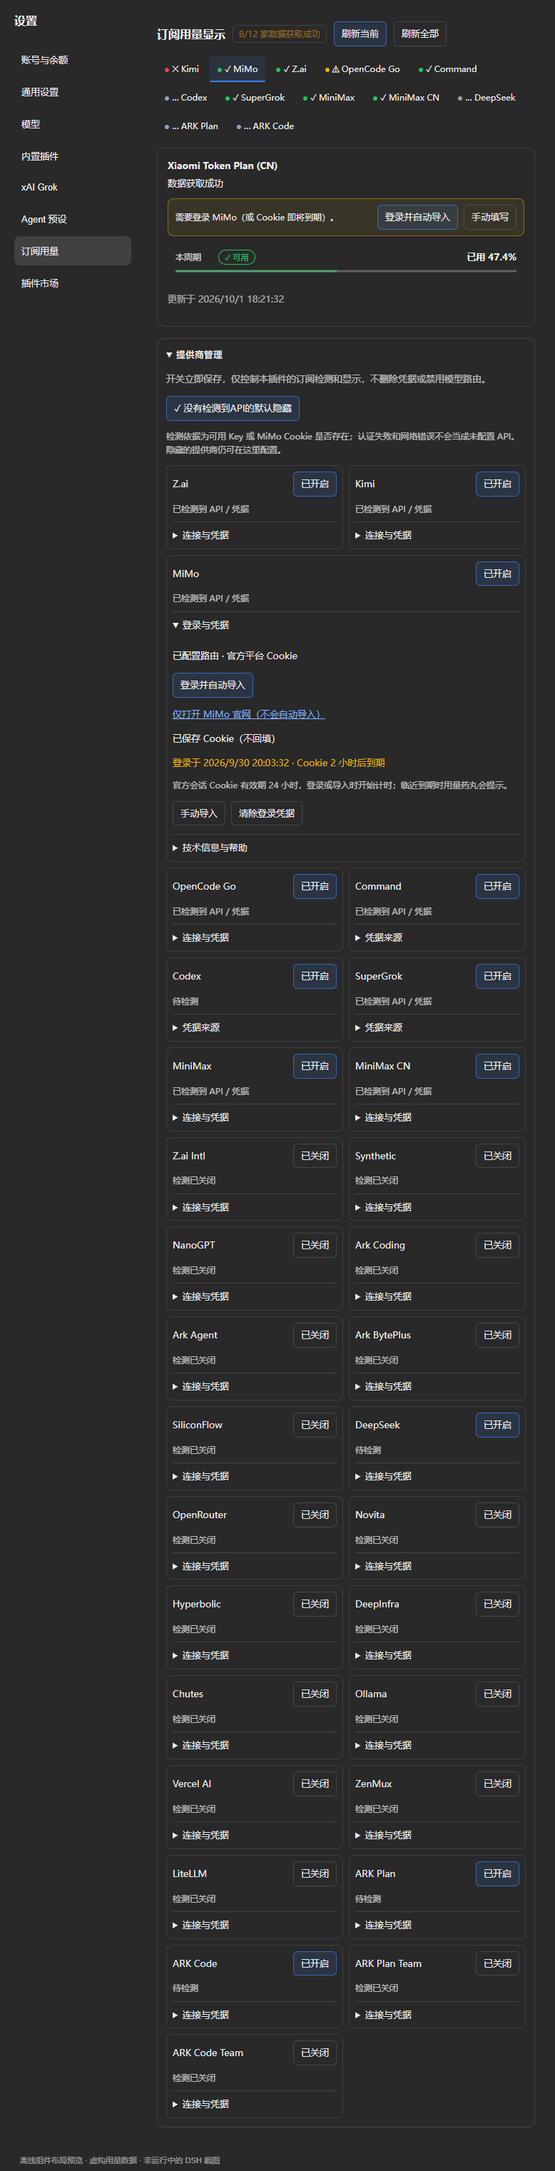
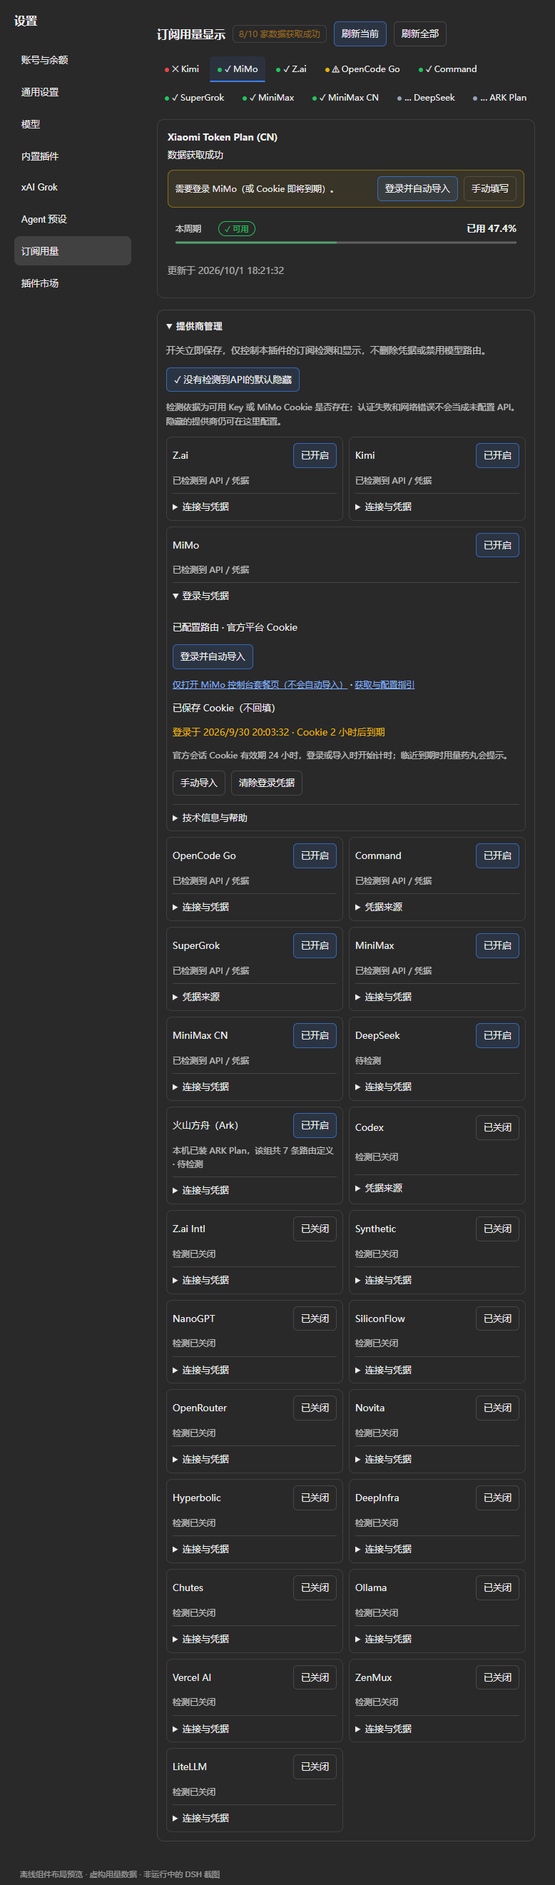
feat: merge the Ark routes into one settings card, default Codex off
- Volcengine Ark: its 7 routes share one IAM AK/SK and most users hold a single
  plan, so the settings page now shows ONE card with one group switch
  (visibility.ark) and one credential pair, stating which routes are actually
  installed. Provider ids are NOT merged: pills still match routes by id. Old
  per-route switches migrate as "any on => group on"; persist writes both the
  group flag and each route so older readers never see a contradictory state.
- Codex is now disabled by default: its provider plugin already ships a usage
  pill, so two side by side is just noise. README gains a "prerequisite provider
  plugins" section covering Command Code / SuperGrok / Codex.
- Refresh both README screenshots and sync the enabled/disabled counts across
  the docs (10 on / 20 off, 25 settings cards).

diff --git a/lib/client.js b/lib/client.js
@@ -264,7 +264,8 @@ window.__ModuleLoader__.load({
 			"xai-oauth": { label: "SuperGrok", short: "SuperGrok", envName: "", managedByPlugin: true },
 			// Codex / ChatGPT 订阅：凭据是 Codex CLI 的 OAuth 登录文件，只读、不刷新、不接受本地 Key。
 			// 默认开启：它对齐的是 DSH 内置的 openai-codex 路由，没登录时会被「默认隐藏」自动收起。
-			"openai-codex": { label: "Codex (ChatGPT)", short: "Codex", envName: "", managedByPlugin: true },
+			// 默认关闭：Codex 的提供方插件自带用量药丸，两个并排只是重复信息（仍可手动开启）。
+			"openai-codex": { label: "Codex (ChatGPT)", short: "Codex", envName: "", managedByPlugin: true, defaultEnabled: false },
 			// 国际版默认关闭，中国版保持默认开启。
 			"minimax": { label: "MiniMax (International)", short: "MiniMax", envName: "MINIMAX_API_KEY", defaultEnabled: false },
 			"minimax-cn": { label: "MiniMax (CN)", short: "MiniMax CN", envName: "MINIMAX_CN_API_KEY" },
@@ -300,7 +301,17 @@ window.__ModuleLoader__.load({
 		};
 		// 顺序只影响展示：DeepSeek 放在末尾以免打乱既有条目位置；药丸匹配靠 provider id，与顺序无关。
 		const PROVIDER_ORDER = ["zai-coding-cn", "kimi-coding", "xiaomi-token-plan-cn", "opencode-go", "commandcode", "openai-codex", "xai-oauth", "minimax", "minimax-cn", "zai-coding", "synthetic", "nanogpt", "ark-coding-plan-cn", "ark-agent-plan-cn", "ark-coding-plan-byteplus", "siliconflow", "deepseek", "openrouter", "novita", "hyperbolic", "deepinfra", "chutes", "ollama-cloud", "vercel-ai-gateway", "zenmux", "litellm", "arkcli-agent-plan", "arkcli-coding-plan", "arkcli-agent-plan-team", "arkcli-coding-plan-team"];
-		function providerEnabled(settings, id) { return settings?.visibility?.providers?.[id] ?? (PROVIDER_META[id]?.defaultEnabled !== false); }
+		// 火山方舟的 7 条路由共用同一组 IAM AK/SK，而一般用户只持有一个套餐，所以设置页只给一张卡片、
+		// 一个开关（组开关落在 Host 的 visibility.ark 上）。这些 id 不能真正合并——药丸靠 provider id 匹配路由。
+		const ARK_IDS = PROVIDER_ORDER.filter(id => PROVIDER_META[id]?.volc);
+		function providerEnabled(settings, id) {
+			if (PROVIDER_META[id]?.volc) {
+				// 组开关优先；旧配置里没有它时按「组内任一条开着」合并过来，全新配置则沿用默认。
+				if (typeof settings?.visibility?.ark === "boolean") return settings.visibility.ark;
+				return ARK_IDS.some(key => settings?.visibility?.providers?.[key] === true) || ARK_IDS.every(key => settings?.visibility?.providers?.[key] === undefined);
+			}
+			return settings?.visibility?.providers?.[id] ?? (PROVIDER_META[id]?.defaultEnabled !== false);
+		}
 		// provider id 就是路由 id，而路由由提供方插件/CLI 按「你实际订阅了什么」写入：例如 arkcli helper
 		// 只会为真正持有的套餐写路由。所以本机没有 Coding Plan 路由时，就不该默认把 Coding Plan 显示出来
 		// ——这比「常量里默认开启」更贴近事实。undefined = 拿不到路由表，按「未知」放行，不谎报未安装。
@@ -1400,12 +1411,18 @@ window.__ModuleLoader__.load({
 						h("button", { type: "button", role: "switch", "aria-checked": hideWithoutApi, disabled: busy || dirty || !result.settings?.revision, "aria-label": text("没有检测到API的默认隐藏", "Hide providers without detected API credentials"), style: hideWithoutApi ? primary : btnStyle, onClick: () => saveVisibility({ hideWithoutApi: !hideWithoutApi }) }, `${hideWithoutApi ? "✓ " : "○ "}${text("没有检测到API的默认隐藏", "Hide providers without detected API credentials")}`),
 						h("p", { style: { fontSize: 12, opacity: .75 } }, text("检测依据为可用 Key 或 MiMo Cookie 是否存在；认证失败和网络错误不会当成未配置 API。隐藏的提供商仍可在这里配置。", "Detection checks for a Key or MiMo Cookie, not request success. Auth/network errors are not treated as missing API credentials. Hidden providers remain configurable here.")),
 						// 启用的排到最前面，省得每次往下翻；组内保持 PROVIDER_ORDER 的既有顺序（sort 稳定）。
-						h("div", { style: { display: "grid", gridTemplateColumns: "repeat(auto-fit, minmax(min(100%, 240px), 1fr))", gap: 8 } }, [...PROVIDER_ORDER].sort((a, b) => Number(!providerEnabled(result.settings, a)) - Number(!providerEnabled(result.settings, b))).map(id => {
+						// Ark 的 7 条路由合并成一张卡片：只渲染本机装了的那条作代表（都没装就渲染第一条），
+						// 由它统一控制整组的检测开关与那组共享的 AK/SK。
+						h("div", { style: { display: "grid", gridTemplateColumns: "repeat(auto-fit, minmax(min(100%, 240px), 1fr))", gap: 8 } }, [...PROVIDER_ORDER].filter(id => !PROVIDER_META[id]?.volc || id === (ARK_IDS.find(key => providerRoutable(result, key)) ?? ARK_IDS[0])).sort((a, b) => Number(!providerEnabled(result.settings, a)) - Number(!providerEnabled(result.settings, b))).map(id => {
+							const isArk = Boolean(PROVIDER_META[id].volc), arkPresent = isArk ? ARK_IDS.filter(key => providerRoutable(result, key)) : [];
 							const enabled = providerEnabled(result.settings, id), e = entries.find(item => item.providerId === id), editing = tab === id && editorOpen;
+							// Ark 卡片代表整组：标题用组名、开关写组级字段，并说明本机实际装了哪几条路由。
+							const title = isArk ? text("火山方舟（Ark）", "Volcengine Ark") : PROVIDER_META[id].short;
+							const arkNote = isArk ? text(`本机已装 ${arkPresent.length ? arkPresent.map(key => PROVIDER_META[key].short).join(" / ") : "0 条"}，该组共 ${ARK_IDS.length} 条路由定义`, `${arkPresent.length} of ${ARK_IDS.length} Ark routes installed`) : null;
 							return h("div", { key: id, style: { gridColumn: editing ? "1 / -1" : undefined, display: "flex", gap: 8, flexWrap: "wrap", alignItems: "center", border: "1px solid rgba(128,128,128,.25)", borderRadius: 8, padding: 8 } },
-								h("span", { style: { flex: 1, minWidth: 80 } }, PROVIDER_META[id].short),
-								h("button", { type: "button", role: "switch", "aria-checked": enabled, disabled: busy || dirty || !result.settings?.revision, "aria-label": `${text("启用", "Enable")} ${PROVIDER_META[id].short}`, style: enabled ? primary : btnStyle, onClick: () => saveVisibility({ providers: { [id]: !enabled } }) }, enabled ? text("已开启", "On") : text("已关闭", "Off")),
-								h("span", { style: { width: "100%", fontSize: 12, opacity: .75 } }, !enabled ? text("检测已关闭", "Detection disabled") : !providerRoutable(result, id) ? text("本机没装这条路由：提供方插件或 CLI 没有注册它，开了也读不到东西", "Route not installed on this machine: no provider plugin or CLI registered it, so enabling it reads nothing") : e?.apiDetected === false || ["no-key", "no-cookie"].includes(e?.state) ? text(hideWithoutApi ? "未检测到 API · 默认隐藏" : "未检测到 API", "No API credentials detected") : e?.apiDetected === true || (e?.keySource && e.keySource !== "none") ? text("已检测到 API / 凭据", "API credentials detected") : text("待检测", "Detection pending")),
+								h("span", { style: { flex: 1, minWidth: 80 } }, title),
+								h("button", { type: "button", role: "switch", "aria-checked": enabled, disabled: busy || dirty || !result.settings?.revision, "aria-label": `${text("启用", "Enable")} ${title}`, style: enabled ? primary : btnStyle, onClick: () => saveVisibility(isArk ? { ark: !enabled } : { providers: { [id]: !enabled } }) }, enabled ? text("已开启", "On") : text("已关闭", "Off")),
+								h("span", { style: { width: "100%", fontSize: 12, opacity: .75 } }, arkNote ? arkNote + " · " : "", !enabled ? text("检测已关闭", "Detection disabled") : !providerRoutable(result, id) ? text("本机没装这条路由：提供方插件或 CLI 没有注册它，开了也读不到东西", "Route not installed on this machine: no provider plugin or CLI registered it, so enabling it reads nothing") : e?.apiDetected === false || ["no-key", "no-cookie"].includes(e?.state) ? text(hideWithoutApi ? "未检测到 API · 默认隐藏" : "未检测到 API", "No API credentials detected") : e?.apiDetected === true || (e?.keySource && e.keySource !== "none") ? text("已检测到 API / 凭据", "API credentials detected") : text("待检测", "Detection pending")),
 								h("details", { id: `subusage-credentials-${id}`, open: editing, style: { width: "100%" } },
 									h("summary", { "aria-label": `${text("连接与凭据", "Connection & credentials")} ${PROVIDER_META[id].short}`, style: { cursor: "pointer" }, onClick: event => { event.preventDefault(); if (busy) return; if (editing) setEditorOpen(false); else openEditor(id); } }, text(id === "xiaomi-token-plan-cn" ? "登录与凭据" : PROVIDER_META[id].managedByPlugin ? "凭据来源" : "连接与凭据", id === "xiaomi-token-plan-cn" ? "Login & credentials" : PROVIDER_META[id].managedByPlugin ? "Credential source" : "Connection & credentials")),
 									tab === id ? credentialEditor : null));

diff --git a/lib/index.js b/lib/index.js
@@ -34,7 +34,8 @@ const PROVIDERS = {
  "xai-oauth": { label: "SuperGrok", envName: "", managedByPlugin: true },
  // OpenAI Codex / ChatGPT 订阅：路由由 DSH 内置的 openai-codex（或 dsh-codex-connect 等插件）提供，
  // 额度凭据只认 Codex CLI 的 OAuth 登录文件，不提供本地凭据编辑。
- "openai-codex": { label: "Codex (ChatGPT)", envName: "", managedByPlugin: true },
+ // 默认关闭：Codex 的提供方插件自己就带用量药丸，两个药丸并排只是重复信息（仍可手动开启）。
+ "openai-codex": { label: "Codex (ChatGPT)", envName: "", managedByPlugin: true, defaultEnabled: false },
  // 火山方舟：方舟路由由两种方式写入——官方 CLI（arkcli helper，见下）或官方插件
  // @volcengine/ark-plan-api（legacy 段）。**provider id 必须与写入方逐字一致**，
  // 否则选中方舟模型时药丸不会出现。额度读取走管控面 OpenAPI，凭据是 IAM 的 AK/SK 配对
@@ -80,6 +81,10 @@ const PROVIDERS = {
  "litellm": { label: "LiteLLM", envName: "LITELLM_API_KEY", defaultEnabled: false }
 };
 const IDS = Object.keys(PROVIDERS);
+// 火山方舟的路由共用同一组 IAM AK/SK，而一般用户只持有一个套餐；设置页把它们合并成一张卡片，
+// 用一个组级开关控制整组。这些 id 仍各自存在——药丸要靠 provider id 匹配路由，不能合并。
+const ARK_IDS = IDS.filter(id => PROVIDERS[id].credentialKind === "volc");
+const ARK_DEFAULT_ON = ARK_IDS.some(id => PROVIDERS[id].defaultEnabled !== false);
 // 火山方舟额度接口的凭据是 IAM Access Key：AK 与 SK 必须同源配对，跨来源拼接只会得到 401。
 // 变量名沿用火山官方 SDK 习惯；与方舟推理 Key（ARK_*_API_KEY）无关。
 const VOLC_ACCESS_KEY_ENV = "VOLC_ACCESSKEY";
@@ -187,7 +192,7 @@ function redactMimo(value, cookie) {
  return { ...value, ...(Array.isArray(value.extras) ? { extras: value.extras.map(extra => extra.kind === "plan" ? { ...extra, value: sanitize(extra.value) } : extra) } : {}) };
 }
 function defaultSettings() {
- return { zai: { type: 1, organization: "", project: "" }, volc: { accessKeyId: "", secretAccessKey: "" }, litellm: { baseUrl: "" }, xiaomi: { cookie: "", loginAt: 0, expiresAt: 0 }, keys: {}, keyModes: Object.fromEntries(IDS.map(id => [id, "inherit"])), visibility: { hideWithoutApi: true, providers: Object.fromEntries(IDS.map(id => [id, PROVIDERS[id].defaultEnabled !== false])) } };
+ return { zai: { type: 1, organization: "", project: "" }, volc: { accessKeyId: "", secretAccessKey: "" }, litellm: { baseUrl: "" }, xiaomi: { cookie: "", loginAt: 0, expiresAt: 0 }, keys: {}, keyModes: Object.fromEntries(IDS.map(id => [id, "inherit"])), visibility: { hideWithoutApi: true, ark: ARK_DEFAULT_ON, providers: Object.fromEntries(IDS.map(id => [id, PROVIDERS[id].defaultEnabled !== false])) } };
 }
 function parseStored(value) {
  const s = defaultSettings();
@@ -197,6 +202,9 @@ function parseStored(value) {
  if (value.litellm && typeof value.litellm === "object" && !Array.isArray(value.litellm) && typeof value.litellm.baseUrl === "string") s.litellm.baseUrl = value.litellm.baseUrl;
  if (value.xiaomi && typeof value.xiaomi === "object") { if (typeof value.xiaomi.cookie === "string") s.xiaomi.cookie = value.xiaomi.cookie; for (const field of ["loginAt", "expiresAt"]) if (Number.isSafeInteger(value.xiaomi[field]) && value.xiaomi[field] > 0) s.xiaomi[field] = value.xiaomi[field]; }
  if (typeof value.visibility?.hideWithoutApi === "boolean") s.visibility.hideWithoutApi = value.visibility.hideWithoutApi;
+ // 组级开关：旧配置里 Ark 的每条路由各存了一份，缺省时按「任一条开着」合并过来，迁移不留痕迹。
+ if (typeof value.visibility?.ark === "boolean") s.visibility.ark = value.visibility.ark;
+ else if (ARK_IDS.some(id => value.visibility?.providers?.[id] === true)) s.visibility.ark = true;
  for (const id of IDS) {
   if (typeof value.visibility?.providers?.[id] === "boolean") s.visibility.providers[id] = value.visibility.providers[id];
   if (PROVIDERS[id].managedByPlugin) continue;
@@ -206,7 +214,7 @@ function parseStored(value) {
  return s;
 }
 function publicSettings(s) {
- return { revision: hash(s), zai: { ...s.zai }, volc: { hasAccessKeyId: !!s.volc.accessKeyId?.trim(), hasSecretAccessKey: !!s.volc.secretAccessKey?.trim() }, litellm: { baseUrl: s.litellm.baseUrl }, xiaomi: { hasCookie: !!s.xiaomi.cookie.trim(), loginAt: isoStamp(s.xiaomi.loginAt), expiresAt: isoStamp(s.xiaomi.expiresAt) }, hasKeys: Object.fromEntries(IDS.map(id => [id, !!s.keys[id]?.trim()])), keyModes: { ...s.keyModes }, visibility: { hideWithoutApi: s.visibility.hideWithoutApi, providers: { ...s.visibility.providers } } };
+ return { revision: hash(s), zai: { ...s.zai }, volc: { hasAccessKeyId: !!s.volc.accessKeyId?.trim(), hasSecretAccessKey: !!s.volc.secretAccessKey?.trim() }, litellm: { baseUrl: s.litellm.baseUrl }, xiaomi: { hasCookie: !!s.xiaomi.cookie.trim(), loginAt: isoStamp(s.xiaomi.loginAt), expiresAt: isoStamp(s.xiaomi.expiresAt) }, hasKeys: Object.fromEntries(IDS.map(id => [id, !!s.keys[id]?.trim()])), keyModes: { ...s.keyModes }, visibility: { hideWithoutApi: s.visibility.hideWithoutApi, ark: s.visibility.ark, providers: { ...s.visibility.providers } } };
 }
 function invalid(message) { return new RemoteError("subusage/invalid-request", message, { retryable: false, retainPrevious: false }); }
 function parseUpdate(update) {
@@ -218,9 +226,11 @@ function parseSettings(value) {
  if (value?.visibility !== undefined) {
   const v = value.visibility;
   if (!v || typeof v !== "object" || Array.isArray(v) || Object.keys(value).some(k => !["visibility", "expectedRevision"].includes(k)) || typeof value.expectedRevision !== "string" || !value.expectedRevision) throw invalid("Invalid visibility patch");
-  if (Object.keys(v).some(k => !["providers", "hideWithoutApi"].includes(k)) || !Object.keys(v).length) throw invalid("Invalid visibility fields");
+  if (Object.keys(v).some(k => !["providers", "hideWithoutApi", "ark"].includes(k)) || !Object.keys(v).length) throw invalid("Invalid visibility fields");
   const visibility = {};
   if (v.hideWithoutApi !== undefined) { if (typeof v.hideWithoutApi !== "boolean") throw invalid("Invalid auto-hide switch"); visibility.hideWithoutApi = v.hideWithoutApi; }
+  // Ark 组级开关：设置页只呈现这一个，由它统一控制组内全部路由。
+  if (v.ark !== undefined) { if (typeof v.ark !== "boolean") throw invalid("Invalid Ark group switch"); visibility.ark = v.ark; }
   if (v.providers !== undefined) {
    if (!v.providers || typeof v.providers !== "object" || Array.isArray(v.providers) || !Object.keys(v.providers).length || Object.entries(v.providers).some(([id, enabled]) => !IDS.includes(id) || typeof enabled !== "boolean")) throw invalid("Invalid provider switches");
    visibility.providers = { ...v.providers };
@@ -1121,9 +1131,11 @@ export class SubUsageService extends TypertRemoteService {
   const id = patch.providerId;
   // 火山方舟两个 provider 共用一组 AK/SK：改凭据要让所有用它的条目失效，不能只失效当前标签页。
   const sharedVolc = patch.accessKeyUpdate !== undefined || patch.secretKeyUpdate !== undefined;
-  const affected = patch.visibility ? Object.keys(patch.visibility.providers ?? {}).filter(key => stored.visibility.providers[key] !== patch.visibility.providers[key]) : sharedVolc ? IDS.filter(key => PROVIDERS[key].credentialKind === "volc") : [id];
+  const affected = patch.visibility ? [...Object.keys(patch.visibility.providers ?? {}).filter(key => stored.visibility.providers[key] !== patch.visibility.providers[key]), ...(patch.visibility.ark !== undefined && patch.visibility.ark !== stored.visibility.ark ? ARK_IDS : [])] : sharedVolc ? IDS.filter(key => PROVIDERS[key].credentialKind === "volc") : [id];
   if (patch.visibility) {
    if (patch.visibility.hideWithoutApi !== undefined) stored.visibility.hideWithoutApi = patch.visibility.hideWithoutApi;
+   // 组开关同时落到组内每一条：这样旧字段（逐条开关）与组开关始终一致，回退版本也不会读到矛盾状态。
+   if (patch.visibility.ark !== undefined) { stored.visibility.ark = patch.visibility.ark; for (const key of ARK_IDS) stored.visibility.providers[key] = patch.visibility.ark; }
    Object.assign(stored.visibility.providers, patch.visibility.providers);
   }
   if (patch.keyMode !== undefined) stored.keyModes[id] = patch.keyMode;

diff --git a/docs/development.md b/docs/development.md
@@ -141,7 +141,8 @@ node --input-type=module -e "import {chromium} from 'playwright-core'; import {r
 - 设置页的提供商管理列表把**已启用的排到最前面**（`sort` 稳定，组内保持 `PROVIDER_ORDER` 顺序），避免每次往下翻找自己开了哪几家。
 - **输入净化约定（六个输入框统一）**：设置页的凭据类输入框（AK、SK、普通 Key、MiMo Cookie、LiteLLM 代理地址、Z.ai 组织/项目）都会收到**从网页或控制台复制来的值**，这类值常带尾随换行、制表或零宽字符，而它们本身都不含空白。所以正确做法是 `stripInvisible`（剔除 `\s` 与 `\u200b-\u200d\ufeff`）后保存，**不是**用 `/[\x00-\x1f\x7f]/` 去拒绝——拒绝会让用户看到「填了没用」，根因却藏在一条没读懂的报错里。只有**全空白**才拒绝（否则会把「清空」误当成「替换成空值」）；Host 侧的同名校验保留作最后防线，但正常路径不应触发它。MiMo Cookie 另有 `normalizeCookieText` 做更严格的规范化与必需字段校验。`tests/test-input-sanitize.mjs` 钉住这六条。
 - **凭据指引是用户文档的一部分**：[`docs/credentials.md`](credentials.md) 承载「去哪拿、放哪个环境变量、在界面哪里填」以及报错对照；README 的 Quick start / Configuration / Troubleshooting 都链到它，设置页里需要用户先去别处操作的凭据区（火山 AK/SK、MiMo、普通 Key、LiteLLM、Z.ai 团队档）也各带一个链接。**改凭据流程或新增提供商时要同步它**——用户在这类问题上最容易卡住，而界面本身说不清「去哪儿拿」。文中引用的火山权限策略名与处置顺序以官方文档为准，改动前先核对。
-- **额度线分组（`groupLabel`）**：同一个 provider 的多个窗口**未必属于同一条额度线**——AFP 的日限额只覆盖视觉 / 语音模型与 Harness，5 小时 / 周 / 月才属于文本 / 向量模型（依据：官方「套餐概览 → 额度刷新规则」）。这类窗口必须带 `groupLabel`，由客户端在额度线切换处插一条分组标题，并把"另一条线"排到最后。**判断只看官方文档，不按数值大小推断**——两条线的配额之间本来就没有包含关系，靠数值反推必然出错。个人版与席位版共用 `AFP_WINDOWS`，改一处两处都生效。药丸的窗口短标签同理走 locale（`KIND_SHORT` 存的是 key），不用 `W` / `M` / `D` 让用户猜。
+- **Ark 是分组，不是合并 provider**：火山方舟的 7 条路由共用同一组 IAM AK/SK，而一般用户只持有一个套餐，所以设置页把它们**合并成一张卡片 + 一个组开关**（`visibility.ark`），卡片里说明本机实际装了哪几条。四条要点：①**provider id 绝不合并**——药丸靠 id 精确匹配路由，合并了就不显示；②组开关存两条路径：`persist` 写组标志的同时**写入组内每一条**，新旧字段始终一致，回退版本也不会读到矛盾状态；③旧配置里逐条保存的开关由 `parseStored` 按「任一条开着」迁移，不留痕迹；④`affected` 必须带上整组，否则改开关后各条目的缓存不失效。客户端渲染时只保留「本机装了的那条」作代表（都没装就用第一条）。
+- 药丸的窗口短标签存 locale key（`KIND_SHORT`），中文给「周 / 月 / 日 / 5时」、英文给 `1w` / `1m` / `1d`——不要用 `W` / `M` / `D` 让用户猜。
 
 - **wire 契约的兼容性约定（这条踩过一次真实故障）**：Client bundle 刷新页面即生效，而 Host 要**重启 DSH** 才换代码，因此「客户端已更新、Host 还没重启」是一个**必然出现**的窗口期。凡是**随版本演进的枚举**（首当其冲是 provider id）都不能在 RPC 的 `parse` 层做整体拒绝——否则新版 Client 带着新 id 过来时，用户只会看到网关的 `typert gateway: ... wire field "request" failed boundary validation`，既不知道原因也不知道该做什么。现在的做法是：`refresh` **过滤**未知 id 并单独列出，由 `refresh` 回一条 `subusage/unknown-provider` 的可读条目，其它提供商照常刷新；`save` 的未知 provider 放宽到 `persist` 里拒绝（同样给可读原因）；只有**形状**错误（非数组、缺 `force`、空 `providerId`）才在 `parse` 层拒绝。新增 provider 时不需要同步改动校验逻辑。
 
@@ -162,7 +163,7 @@ node --input-type=module -e "import {chromium} from 'playwright-core'; import {r
 - 额度查询 API：`tests/test-quota-api.mjs` 覆盖 `quota()` 视图形状、`providerIds` 过滤与未知 id 忽略、**「不泄露内部状态」**（视图里搜不到 `settings` / `keySource` / `apiDetected` / `envName` 与 Key 本身）、单家失败只影响自己的条目，以及工具契约（`defineTool` 的 object 根 schema、`providers`/`refresh` 映射、`render` 文案含未配置/已关闭/限流+重置/缓存/失败原因）。`tests/smoke-host.mjs` 增加「`subusage_quota` 已注册且参数为 providers/refresh」断言。DSH 侧 API 已核实：`defineTool` 由 `@deepseek-ai/dsh-tools` 导出（`textRender` **未**导出，`render` 自己返回 `[{type:"text",text}]`）；`defineTool` 的 `execute(args, exec)`、`output.schema` 用 DSH 的「属性内 `required: true`」写法。**未做**：真实 host 上工具被模型调用的端到端验证（需要重启 DSH）。
 - 用量面板内联行动条（UX）：`tests/test-usage-action.mjs` 钉住判定（缺凭据/凭据被拒/已过期 → 重新登录/2 小时与 30 分钟档/正常倒计时不打扰/计时不可解析不编造），`tests/test-client-render.mjs` 钉住渲染（MiMo 失效时面板出现行动条与按钮，正常状态没有）。行动条只负责「把入口送到眼前」，凭据编辑复用同一份编辑器，避免两套字段与校验漂移（沿用本仓库既有的「两入口共用同一渲染」约定）。
 - 余额型聚合商六家：`tests/test-aggregators.mjs` 逐个钉住单位换算（Novita 1/10000、Hyperbolic 美分、DeepInfra 取负、Chutes 绝对量、Ollama 0–1 小数、Vercel 十进制字符串）与边界（`{quota:0}` 不猜比例、Ollama 缺层跳过、DeepInfra 欠款分支），并在 Host 端逐一断言端点与鉴权头（**Ollama Cloud 是裸 `Authorization`**）。**未做**任何真实 Key 的在线验证。
-- MiniMax 国际版改为默认关闭（用户要求：实际使用少）。`tests/test-minimax.mjs` 补上默认值断言并在用例前显式开启两家，`tests/test-client-behavior.mjs` 的可见 tab 列表改用 MiniMax CN。（当时的 15/9 计数已被后续批次改写，**当前值以 `lib/index.js` 的 `PROVIDERS` 为准**——现为默认关闭 19 条、默认开启 11 条。）
+- MiniMax 国际版改为默认关闭（用户要求：实际使用少）。`tests/test-minimax.mjs` 补上默认值断言并在用例前显式开启两家，`tests/test-client-behavior.mjs` 的可见 tab 列表改用 MiniMax CN。（当时的 15/9 计数已被后续批次改写，**当前值以 `lib/index.js` 的 `PROVIDERS` 为准**——现为默认关闭 20 条、默认开启 10 条；设置页合并 Ark 后是 25 张卡片。）
 - OpenRouter：`tests/test-openrouter.mjs` 覆盖限额窗口与 `limit_reset` 映射、免费档日窗口、**余额端点 403 的静默降级**（只少余额，条目仍 `ok`）、`limit_remaining` 越界不产生负用量、无可用信息才报错、Host 端到端两请求与 Client 注册。**未做**真实 Key 的在线验证（无凭据）。
 - DeepSeek 官方余额：`tests/test-deepseek.mjs` 覆盖归一化（不产窗口、字符串金额、多币种取第一条可解析项、货币码不合规时只显示金额、`is_available=false` 提示充值、非法值报错）、Host 端到端（默认开启、Bearer 与推理同 Key、密钥不回显）与 Client 注册。**未做**真实 Key 的在线验证。
 - 顺序约定：新 provider 一律**追加在 `PROVIDER_ORDER` 末尾**。本轮把 Codex 插在中间时，测试里三处按位置写的 `ids[N]` 断言全部错位（改用 id 字面量断言后恢复）；追加在末尾则不影响既有索引。

diff --git a/README.md b/README.md
@@ -24,7 +24,7 @@
 
 ## 支持的数据 / Supported data
 
-共 **30 条 provider id**：新安装**默认开启 11 条、默认关闭 19 条**（数字与清单取自 [`lib/index.js`](lib/index.js) 顶部的 `PROVIDERS`，展示顺序与短名取自 [`lib/client.js`](lib/client.js) 顶部的 `PROVIDER_META` / `PROVIDER_ORDER`）。
+共 **30 条 provider id**：新安装**默认开启 10 条、默认关闭 20 条**（数字与清单取自 [`lib/index.js`](lib/index.js) 顶部的 `PROVIDERS`，展示顺序与短名取自 [`lib/client.js`](lib/client.js) 顶部的 `PROVIDER_META` / `PROVIDER_ORDER`）。
 
 | 提供商 | provider id | 额度类型 | 鉴权 | 默认 |
 |---|---|---|---|---|
@@ -123,11 +123,26 @@ $env:DEEPSEEK_API_KEY = "<你的 DeepSeek API Key>"   # 启动环境；改完需
 
 重启后在会话中选中 DeepSeek 模型，药丸显示账户余额；也可以直接让 Agent 调用 `subusage_quota(providers: ["deepseek"])` 验证（无需界面）。
 
+## 前置：这几家需要提供方插件
+
+绝大多数提供商只要一把 API Key 就能用。但下面几家要先装**提供方插件**——它们负责注册模型路由、完成登录并持有凭据；本插件只**读取**同一份凭据，不代为登录、也不保存它们。
+
+| 提供商 | 前置提供方插件 | 凭据从哪来 |
+| --- | --- | --- |
+| Command Code | [`@mars-sea/dsh-commandcode-provider`](https://www.npmjs.com/package/@mars-sea/dsh-commandcode-provider) | 在该插件的设置页登录，或运行 `cmd login`（兜底读 `~/.commandcode/auth.json`） |
+| SuperGrok | [`dsh-grok-kit`](https://github.com/KouzakiUmi/dsh-grok-kit) | 运行 `grok login`，登录文件 `~/.grok/auth.json` |
+| Codex（ChatGPT 订阅） | Codex 提供方插件（如 `dsh-codex-connect`） | 运行 `codex login`，登录文件 `$CODEX_HOME/auth.json` 或 `~/.codex/auth.json` |
+
+> **Codex 默认关闭**：它的提供方插件本身就带一个用量药丸，两个并排只是重复信息。想要本插件这一份（比如想把 Codex 和别家放在一起看）可以在**提供商管理**里手动开启。
+>
+> 这几家的**凭据不在本插件的设置页里**：请用上表的登录方式。缺登录时本插件的卡片会直接给出对应的登录命令。
+
 ## Configuration / 配置
 
 - **设置页路径**：设置 → **订阅用量** → 提供商管理。「没有检测到API的默认隐藏」默认开启；首次没有可见条目时管理区自动展开。关闭的提供商仍可配置凭据，只是不会发起用量请求。
 - **凭据从哪来**：每一类凭据的**官网入口、环境变量名与界面填入位置**都写在[凭据获取指引](docs/credentials.md)——包括火山的 IAM AK/SK（子用户还要挂 `ArkReadOnlyAccess` 且不限制到项目）、MiMo 的平台会话 Cookie、以及各家 API Key 的对照表。**注意推理 Key 与额度凭据不通用。**
-- **默认开关策略**：新安装默认开启 11 条、默认关闭 19 条；开关即时保存，升级保留已保存的开关，不重算默认值。默认隐藏只影响显示，不会自动开启被关闭的提供商。
+- **默认开关策略**：新安装默认开启 10 条、默认关闭 20 条（**Codex 默认关闭**——它的提供方插件自带用量药丸）；开关即时保存，升级保留已保存的开关，不重算默认值。默认隐藏只影响显示，不会自动开启被关闭的提供商。
+- **火山方舟是一组**：7 条路由共用同一组 IAM AK/SK，所以设置页只呈现**一张卡片、一个开关**（组内最后选的那条作为代表），卡片里写明本机实际装了哪几条。这些 provider id 并没有合并——药丸仍按 id 匹配路由，本机没装的自然不显示。
 - **凭据来源优先级**（`inherit` 模式）：**凭据服务 → 启动环境 → 旧手动配置兜底**；切到自定义（`manual`）模式时只使用保存的手动 Key。界面会区分这三种来源。
 - **不接受本地 Key 的提供商**：`commandcode`（凭据链属提供方插件）、`xai-oauth`、`openai-codex`（只读各自 CLI 的登录文件），以及 MiMo（Cookie 会话）。
 - **保存与验证分离**：凭据先确认持久化，再独立做在线验证；检测关闭的提供商只保存凭据、不发起验证，验证失败不代表保存失败。

diff --git a/docs/changelog.md b/docs/changelog.md
@@ -125,6 +125,8 @@
 - **新增[凭据获取指引](credentials.md)**，并接到 README（Quick start / Configuration / Troubleshooting）与设置页里需要用户先去别处操作的凭据区（火山 AK/SK、MiMo、普通 Key、LiteLLM、Z.ai 团队档）。内容含：每类凭据的**官网入口、环境变量名、界面填入位置**；火山子用户的**创建与授权完整清单**（`ArkReadOnlyAccess` + 「限制到项目资源」选否，以及 `AccessKeySelfManageAccess` / `AccessKeyFullAccess` 的取舍）；一张**报错对照表**。设置页的火山凭据区还加了直达控制台「API 访问密钥」的链接。
 - **Agent Plan 的额度按额度线分成两组展示**。官方口径（[套餐概览 · 额度刷新规则](https://ark.volcengine.com/region:cn-beijing/docs/agent-plan-personal-plan-overview#%E9%A2%9D%E5%BA%A6%E5%88%B7%E6%96%B0%E8%A7%84%E5%88%99)）里，**日限额只覆盖视觉模型、语音模型与 Harness**，而 5 小时 / 周 / 月属于文本 / 向量模型——两条不是同一条额度线，混排会让人把「日 50K > 周 35K」读成插件算错。现在按额度线分组显示（个人版与席位版共用同一组窗口定义），日限额排在最后并标注适用范围。**Coding Plan 不受影响**：官方只给 5 小时 / 周 / 月三条，本就是同一条线。
 - **药丸的窗口短标签改成中文**：`W` / `M` / `D` 这类缩写要用户自己猜；现在走 locale，中文显示「周 / 月 / 日 / 5时」，英文用 `1w` / `1m` / `1d`。
+- **设置页把火山方舟的 7 条路由合并成一张卡片**：它们共用同一组 IAM AK/SK，而一般用户只持有一个套餐，原来 7 张卡片各自问一遍同样的凭据纯属冗余。现在只有一个**组开关**（落在 `visibility.ark` 上）和一组凭据，卡片里说明本机实际装了哪几条路由。**这些 provider id 并没有合并**——药丸仍按 id 匹配路由。旧配置里逐条保存的开关会按「任一条开着」自动迁移。
+- **Codex 改为默认关闭**：它的提供方插件自带用量药丸，两个并排只是重复信息（仍可在提供商管理里手动开启）。README 新增「前置：这几家需要提供方插件」一节，列出 Command Code / SuperGrok / Codex 各自的前置插件与登录方式。
 
 ## 0.10.1：RPC 版本窗口期兼容、按路由判定默认可见性、设置页排序
 

diff --git a/docs/design-ux.md b/docs/design-ux.md
@@ -5,8 +5,8 @@
 ## 1. Provider 导航
 
 - 固定顺序：`Z.ai / Kimi / MiMo / OpenCode Go / Command Code / SuperGrok / MiniMax / MiniMax CN / Z.ai Intl / Synthetic / NanoGPT`；只展示开启且未被默认隐藏的厂商，按钮导航在窄容器自然换行，全页不使用下拉列表。
-- 提供商管理位于底部，通常折叠，无可见条目时自动展开；始终列出十一家，每家开关和凭据编辑在同一卡片内，就地展开。展开卡片占满可用宽度。
-- Z.ai 国际、Synthetic、NanoGPT 新安装与旧配置升级均默认关闭；检测到凭据或保存凭据也不会自动开启。原有七项默认开启，已保存偏好优先。
+- 提供商管理位于底部，通常折叠，无可见条目时自动展开；始终列出全部提供商，每家开关和凭据编辑在同一卡片内，就地展开。展开卡片占满可用宽度。**火山方舟的 7 条路由共用一组 AK/SK，因此合并成一张卡片、一个开关**（卡片里说明本机实际装了哪几条），其余 23 条各占一张，共 25 张。
+- 新安装默认开启 10 条、默认关闭 20 条（含 Codex——它的提供方插件自带用量药丸）；检测到凭据或保存凭据**不会**自动开启，已保存的偏好优先。
 - 上方仅展示用量；用量选中状态与行内编辑状态独立，浏览其他用量不丢失草稿。编辑器切换仍须先保存或取消；脏草稿仅禁用即时开关，不禁用凭据表单。
 - 独立开关立即保存，关闭停止用量请求并隐藏标签/药丸，但保留凭据和模型路由；保存反馈就地显示。
 - 「没有检测到API的默认隐藏」默认开启；依据有效来源中 Key / Cookie 是否存在，不依据路由配置、认证或请求成功。未知检测状态不伪装为缺凭据。
@@ -35,7 +35,7 @@ Z.ai Coding                                 Lite
 ▸ 提供商管理
   [Z.ai 开关]    ▸ 连接与凭据
   [MiMo 开关]    ▸ 登录与凭据
-  ……共十一项，各卡片内提供帮助 / 高级信息
+  ……共 25 张卡片（火山方舟那 7 条路由合并成一张），各卡片内提供帮助 / 高级信息
 ```
 
 - 顶部不放常驻保存按钮；凭据展开编辑且有修改时显示保存/取消。

diff --git a/docs/providers.md b/docs/providers.md
@@ -11,7 +11,7 @@
 
 ## 1. 清单与默认开关
 
-30 条 provider id 的总表（提供商 / id / 额度类型 / 鉴权 / 新安装默认开关）只维护在 [README 的「支持的数据」](../README.md#支持的数据--supported-data) 一处，避免同一份事实在两处漂移：**默认开启 11 条、默认关闭 19 条**（`PROVIDERS[id].defaultEnabled !== false`）。
+30 条 provider id 的总表（提供商 / id / 额度类型 / 鉴权 / 新安装默认开关）只维护在 [README 的「支持的数据」](../README.md#支持的数据--supported-data) 一处，避免同一份事实在两处漂移：**默认开启 10 条、默认关闭 20 条**（`PROVIDERS[id].defaultEnabled !== false`；Codex 默认关闭是因为它的提供方插件自带用量药丸）。设置页里那 30 条会合并成 **25 张卡片**——火山方舟的 7 条路由共用一个组开关。
 
 新增厂商须同时改 `PROVIDERS`、`PROVIDER_META` / `PROVIDER_ORDER`、帮助文案、README 与默认值测试；未获明确需求的新订阅商一律 `defaultEnabled: false`，原有偏好通过存储合并保留。
 
